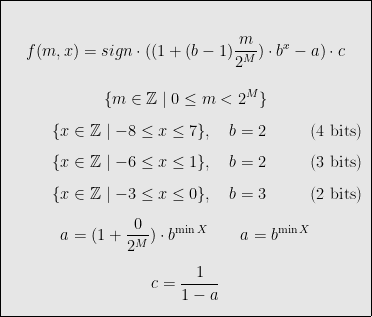
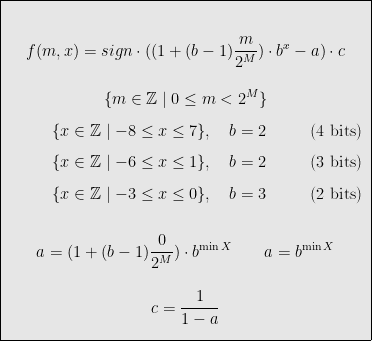
README.md (formula)

diff --git a/images/gen_precision.go b/images/gen_precision.go
@@ -70,6 +70,12 @@ func main() {
 	toyfloat16, err16 := toyfloat.NewTypeX4(16, true)
 	exitOnError(err16)
 
+	toyfloat16x3, err16x3 := toyfloat.NewTypeX3(16, true)
+	exitOnError(err16x3)
+
+	toyfloat16x2, err16x2 := toyfloat.NewTypeX2(16, true)
+	exitOnError(err16x2)
+
 	toyfloat16u, err16u := toyfloat.NewTypeX4(16, false)
 	exitOnError(err16u)
 
@@ -110,6 +116,14 @@ func main() {
 
 	generate("precision16.tsv", func(x float64) float64 {
 		return toyfloat16.Decode(toyfloat16.Encode(x))
+	})
+
+	generate("precision16x3.tsv", func(x float64) float64 {
+		return toyfloat16x3.Decode(toyfloat16x3.Encode(x))
+	})
+
+	generate("precision16x2.tsv", func(x float64) float64 {
+		return toyfloat16x2.Decode(toyfloat16x2.Encode(x))
 	})
 
 	generate("precision16u.tsv", func(x float64) float64 {

diff --git a/images/plot.py b/images/plot.py
@@ -141,5 +141,7 @@ if __name__ == "__main__":
     make_image('precision16.tsv', 'precision16.png')
     make_image('precision16u.tsv', 'precision16u.png')
     make_image('precision16x3u.tsv', 'precision16x3u.png')
+    make_image('precision16x3.tsv', 'precision16x3.png', 3.0)
+    make_image('precision16x2.tsv', 'precision16x2.png', 3.0)
 
     make_comparison('comparison.png')

diff --git a/images/formula.tex b/images/formula.tex
@@ -49,7 +49,7 @@
         \\
 
             \vbox{\begin{equation*}
-            a = (1 + \frac{0}{2^{M}}) \cdot b^{\min{X}}
+            a = (1 + (b - 1) \frac{0}{2^{M}}) \cdot b^{\min{X}}
             \quad \quad
             a = b^{\min{X}}
             \end{equation*}}
